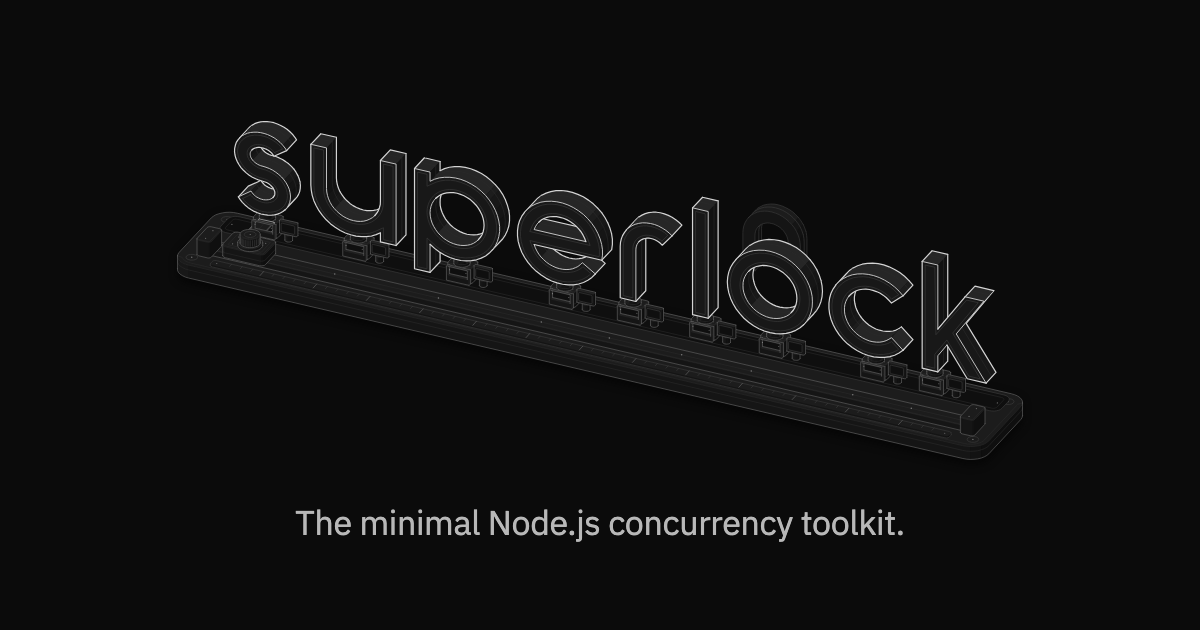
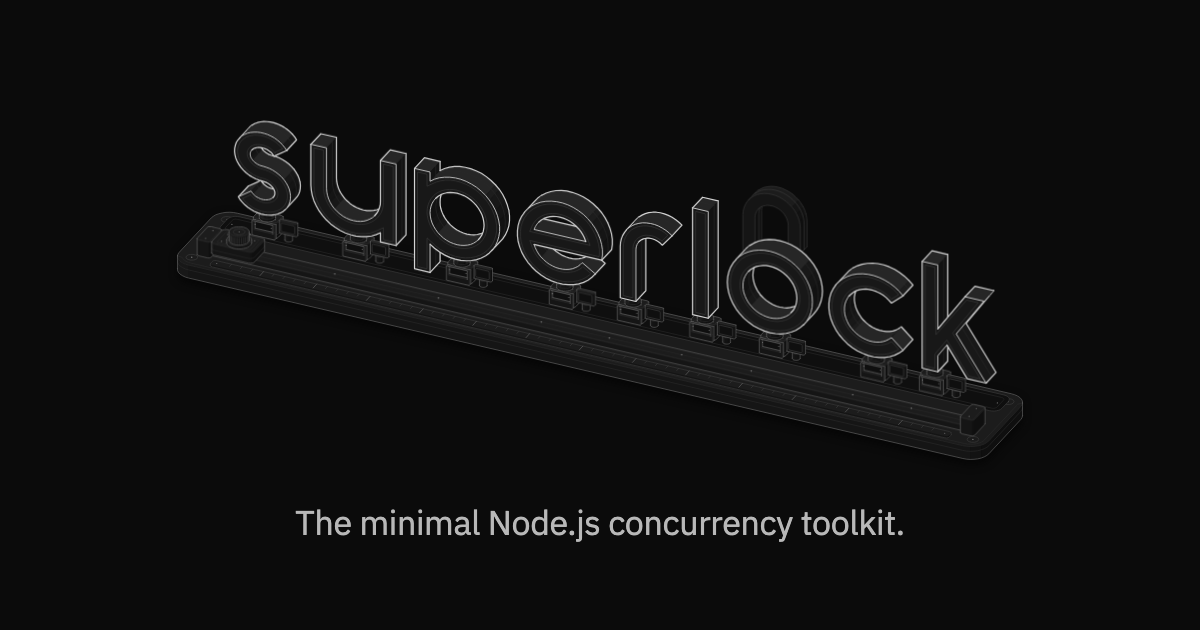
docs: freeze the og card on the idle wordmark
Inline the wordmark and README subtitle before the screenshot so a file:// fetch cannot ship a blank card, pause on the recorded idle frame, and bound the headless Chrome run.

diff --git a/docs/og/banner.html b/docs/og/banner.html
@@ -26,10 +26,12 @@
       font-family: 'IBM Plex Sans', system-ui, sans-serif;
     }
 
-    #logo svg {
+    #logo svg,
+    #logo object {
       display: block;
       width: 880px;
       height: auto;
+      border: 0;
     }
 
     .subtitle {
@@ -41,20 +43,21 @@
   </style>
 </head>
 <body>
-  <div id="logo"></div>
+  <div id="logo">
+    <object data="../anatomy/wordmark.svg" type="image/svg+xml" aria-label="superlock"></object>
+  </div>
   <p class="subtitle" id="subtitle"></p>
   <script>
-    const FROZEN = '<style>*{animation:none!important}</style>'
-
+    const PAUSE = '<style>*{animation-delay:0s!important;animation-play-state:paused!important}</style>'
     const text = path => fetch(path).then(response => response.text())
 
     text('../anatomy/wordmark.svg').then(svg => {
-      document.getElementById('logo').innerHTML = svg.replace('</svg>', `${FROZEN}</svg>`)
-    })
+      document.getElementById('logo').innerHTML = svg.replace('</svg>', `${PAUSE}</svg>`)
+    }).catch(() => {})
 
     text('../../README.md').then(readme => {
       document.getElementById('subtitle').textContent = readme.match(/class="subtitle">([^<]+)</)[1]
-    })
+    }).catch(() => {})
   </script>
 </body>
 </html>
